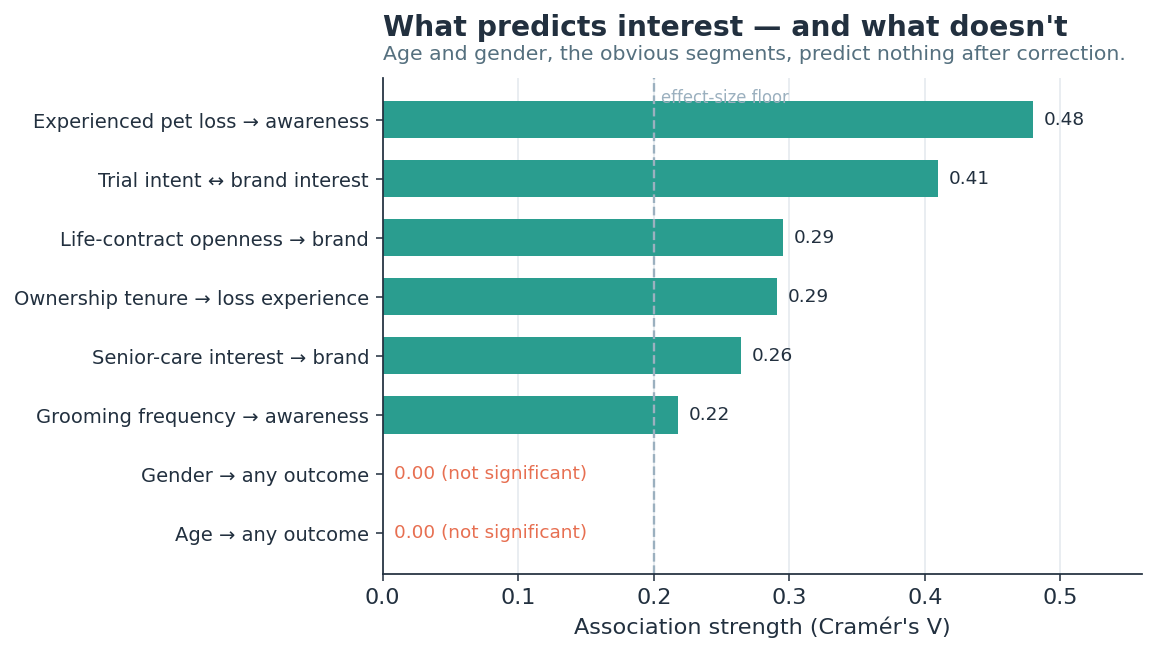
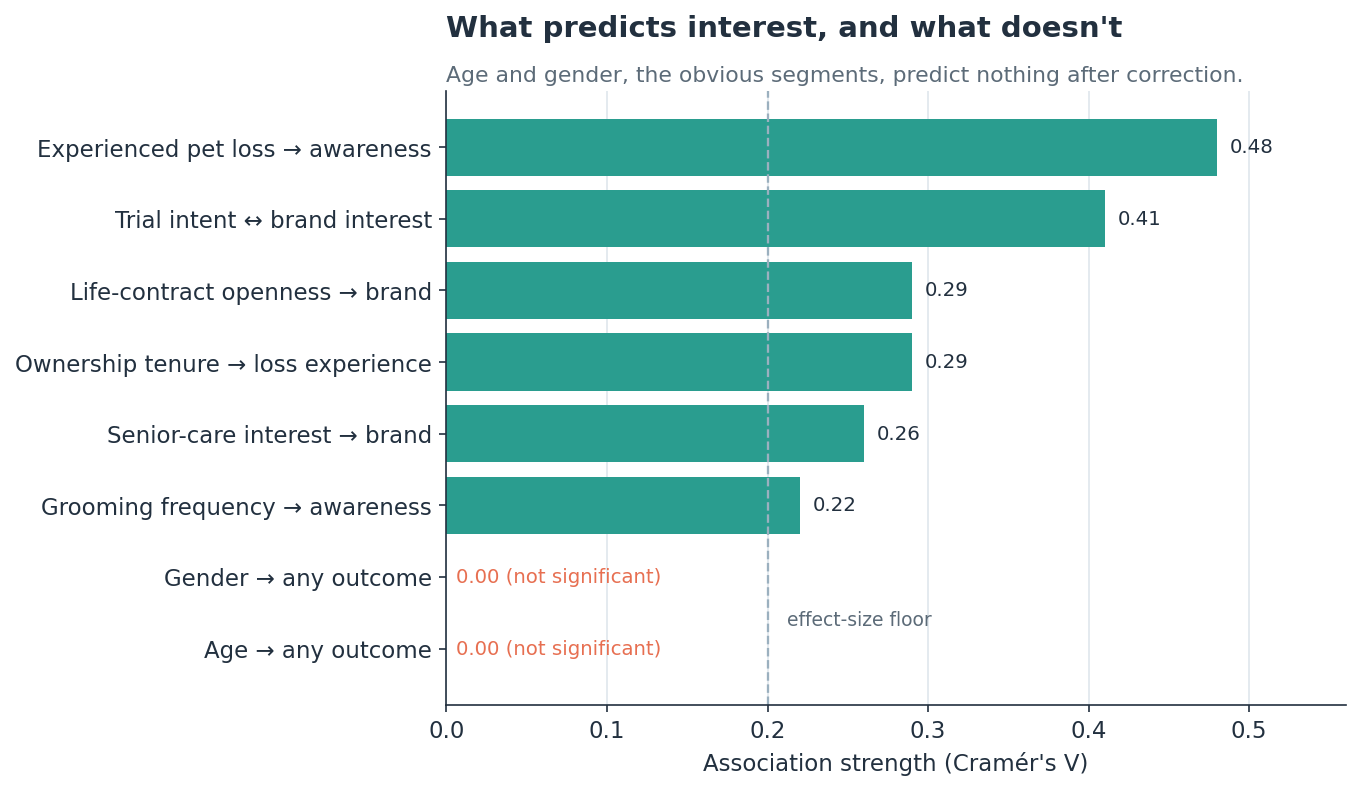
Objective line on every piece; de-dash survey_effects; add pet-survey behavioural-chain figure
- Add a consistent one-line Objective to all 11 pieces (brief/goal up front)
- Regenerate survey_effects with a de-dashed title and repositioned floor label
- New survey_chain.png schematic for the pet-survey headline finding
- insider_deciles left as-is (original decile method not reproducible from the stored panel)

diff --git a/pieces/pet-survey.md b/pieces/pet-survey.md
@@ -7,6 +7,8 @@ description: It is not the segment you would target. A survey of 267 pet owners,
 
 [&larr; Back to portfolio](../)
 
+**Objective:** find who to target for a pre-planned pet-funeral product, and test whether the obvious demographic segments are the right ones to aim at.
+
 ## The finding in one line
 
 The obvious way to target a pre-planned pet funeral product is by demographics: age, gender, "urban professional women in their forties." In this data **age and gender predicted nothing**. The real buyer is found through a behavioural chain: owners with 10+ years of tenure are far more likely to have experienced pet loss, which is by far the strongest predictor of knowing the product exists, which leads to a planning mindset, which is what actually predicts intent to buy.
@@ -19,6 +21,9 @@ The obvious way to target a pre-planned pet funeral product is by demographics: 
 - **It refused the obvious segmentation and proved it was empty.** Segmenting by "35 to 45 year old women" feels right and is not evidence-based here. After correcting for multiple comparisons, gender produced zero significant links to any key outcome and age predicted none of them. The piece says so plainly instead of quietly dropping it.
 - **It used real statistical discipline, not eyeballed cross-tabs.** 276 categorical pairs tested with Benjamini-Hochberg false-discovery correction and an effect-size floor, so the findings that survive are the ones worth acting on. 221 of the 276 pairs showed nothing, and that is reported as a result, not hidden.
 - **It turned the surviving signal into a targeting rule.** Tenure predicts loss experience (the strongest effect in the study), loss experience predicts awareness, awareness predicts a planning mindset, and planning predicts purchase intent. That is a chain, not a coincidence, and it names a warm audience that already sits inside the customer base.
+
+![The behavioural chain from ownership tenure through to purchase intent.](../assets/fig/survey_chain.png)
+*The chain behind the targeting rule. Long tenure makes pet loss more likely; loss experience is the strongest single predictor of knowing the product exists; awareness leads to a planning mindset, which predicts intent. Cramér's V shown where measured; age and gender attach nowhere on it. Anonymised survey, 267 respondents.*
 
 ## The commercial levers it surfaced
 

diff --git a/pieces/woodfine-site-selection.md b/pieces/woodfine-site-selection.md
@@ -7,6 +7,8 @@ description: An investment thesis needed locations where a Walmart, a Costco and
 
 [&larr; Back to portfolio](../)
 
+**Objective:** find US locations where several big-box retailers already cluster, and turn thousands of raw candidates into a ranked, decision-ready shortlist.
+
 ## The finding in one line
 
 The investment thesis wanted sites where several big-box retailers (a department store, a hardware store, a food distributor) already sit close together, on the logic that they have each solved the same location problem. The usual way to find those is to pile data layers onto a map and hunt by eye. Instead I modelled every candidate store in the country as a node in a graph, connected each to its nearest neighbour of every other type, and extracted the **9,189 "cliques"** where one of each sits mutually closest. Then I made that list tractable, ranking it down to **41 strong candidates**.

diff --git a/pieces/pet-retention.md b/pieces/pet-retention.md
@@ -7,6 +7,8 @@ description: A pet-services chain's enrolment opportunity looked like a 10x bigg
 
 [&larr; Back to portfolio](../)
 
+**Objective:** decide whether to launch a company-wide drive to enrol non-members, by sizing the prize honestly before any money was committed to chasing it.
+
 ## The finding in one line
 
 Customers on the chain's membership platform were worth **3.7x more** over their lifetime than those who had never joined (NT$22,517 vs NT$6,058). The obvious read was a **NT$16.7M prize**: enrol the 1,014 customers who had not joined, lift them to member value, bank the difference. That number was a mirage. The honest, reachable prize was closer to **NT$1.7M**, and saying so was the point of the engagement.

diff --git a/pieces/insider-buybacks.md b/pieces/insider-buybacks.md
@@ -7,6 +7,8 @@ description: A signal that survives its own stress tests.
 
 [&larr; Back to portfolio](../) · [Code and full writeup on GitHub](https://github.com/yllucsyeoj/insider_buybacks)
 
+**Objective:** test a sharp, falsifiable version of "insiders selling into strength predicts weaker returns", and see whether it survives its own robustness checks.
+
 ## The finding in one line
 
 When a company's own officers sell stock after the price has run up hard, the stock tends to lag the market over the next 6 to 12 months. The heaviest "sell-into-strength" cases preceded roughly a **24% shortfall versus the S&P 500 over six months**, after stripping out each company's baseline drift and the broad market.

diff --git a/pieces/vet-clinic.md b/pieces/vet-clinic.md
@@ -7,6 +7,8 @@ description: Revenue up 57%, visits tripled, and the average ticket halved. Behi
 
 [&larr; Back to portfolio](../)
 
+**Objective:** explain why a clinic with fast-rising revenue felt financially exposed, and identify what its future actually depends on.
+
 ## The finding in one line
 
 The clinic looked like a clear success: visits nearly tripled in 18 months and revenue grew 57% year on year. But the **average ticket had halved**, from about NT$5,500 to NT$2,600. Underneath a healthy top line, the business had quietly stopped being a surgical practice and become a wellness and chronic-care one, and its entire future rested on a cohort-retention bet that no one had written down.

diff --git a/pieces/hidden-dependency.md b/pieces/hidden-dependency.md
@@ -7,6 +7,8 @@ description: Direct purchase data understates concentration risk. Trace the flow
 
 [&larr; Back to portfolio](../)
 
+**Objective:** measure true supplier concentration when it hides one tier down, behind mills and re-exporters, using the global wheat trade as a worked example.
+
 ![Direct import share versus true share once flows are traced through intermediaries.](../assets/fig/dependency_tracing.png)
 *Direct import share against ultimate-origin share for 2021. Chad buys almost no wheat directly from the two exporters, yet half its supply ultimately comes from them. Egypt mills its own grain, so its two readings agree. Source: FAOSTAT; self-directed analysis.*
 

diff --git a/pieces/swimwear-retention.md b/pieces/swimwear-retention.md
@@ -7,6 +7,8 @@ description: Segmenting 221 wholesale accounts to find the 6% that carry a third
 
 [&larr; Back to portfolio](../)
 
+**Objective:** work out which wholesale accounts to protect, where revenue is really concentrated, and why the base felt soft while the headline kept growing.
+
 ## The finding in one line
 
 **Twelve accounts, 6% of the customer base, generate 34.5% of wholesale revenue** (TWD 11.2M) and are still growing. Underneath them, the 75% of accounts that make up the mainstream channel are quietly shrinking at a median of **−82 TWD/month**. The business looks healthy in aggregate and is actually two opposite stories stacked on top of each other.

diff --git a/pieces/scale-and-signal.md b/pieces/scale-and-signal.md
@@ -7,6 +7,8 @@ description: A self-directed study of German district-level data, and what to do
 
 [&larr; Back to portfolio](../)
 
+**Objective:** test whether a district's demographic make-up predicts how it votes, and decide what to do when the answer flips with the geographic scale of the controls.
+
 ![The sex-ratio coefficient across nine model specifications, surviving regional controls but collapsing under spatial ones.](../assets/fig/scale_ladder.png)
 *The headline variable's estimated effect across the model hierarchy. It holds under state and regional fixed effects and collapses under neighbour-based spatial models. That contradiction is the finding.*
 

diff --git a/pieces/site-scoring-engine.md b/pieces/site-scoring-engine.md
@@ -7,6 +7,8 @@ description: A multi-criteria model that ranks an entire national network of fue
 
 [&larr; Back to portfolio](../)
 
+**Objective:** rank a national network of fuel-and-logistics sites, with competitor and greenfield sites alongside, by how good each is purely as a location, across six countries.
+
 ![The scoring model's criteria grouped into ten data families, from port throughput to competitor service provision.](../assets/fig/mcda_families.png)
 *The model scores each site against roughly 38 criteria drawn from ten data families. Breadth is the point: a good location is good for many separate reasons, and each one is measured on its own terms.*
 

diff --git a/pieces/city-as-buildings.md b/pieces/city-as-buildings.md
@@ -7,6 +7,8 @@ description: Finding the residents of comparable developments in an aggregate mo
 
 [&larr; Back to portfolio](../)
 
+**Objective:** profile who would live in a planned high-end residential scheme, by finding and clustering the residents of comparable existing buildings, to guide its design and marketing.
+
 ![Four unrelated datasets resolved to a building, then to resident archetypes.](../assets/fig/bp_assembly.png)
 *Four datasets that share no common key, resolved to one unit (the individual building) and then to the behavioural archetypes of the people who live in that kind of building.*
 

diff --git a/pieces/hines-logistics.md b/pieces/hines-logistics.md
@@ -7,6 +7,8 @@ description: A vehicle-routing and geodemographic study for Hines that put a num
 
 [&larr; Back to portfolio](../) · [Read the full 44-page paper (PDF)](../papers/hines001-logistics-location-analysis.pdf)
 
+**Objective:** put a defensible number on the logistics cost hidden inside where a warehouse sits, so it could be priced into an investment decision.
+
 ![The full Greater London road network rendered as a routing graph.](../assets/fig/hines_network.png)
 *The Greater London road network as a routing graph. Travel-time matrices over this network drive the delivery simulation.*
 
